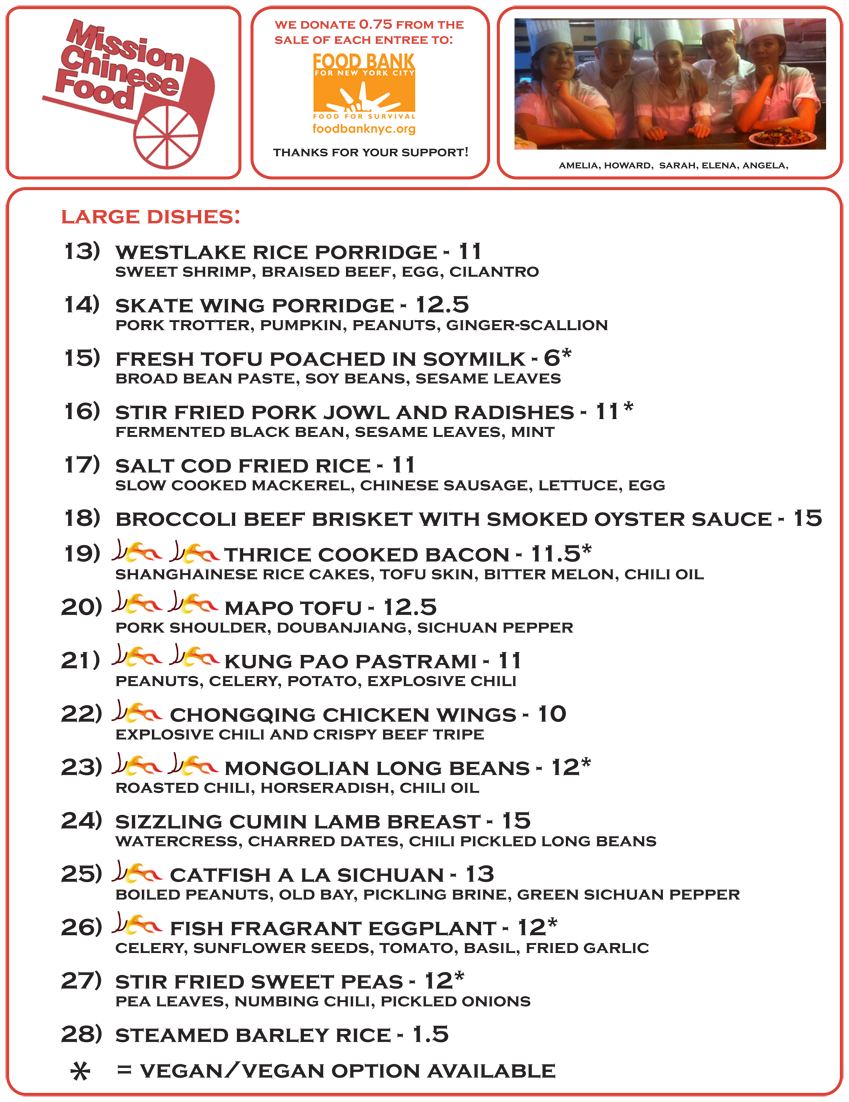
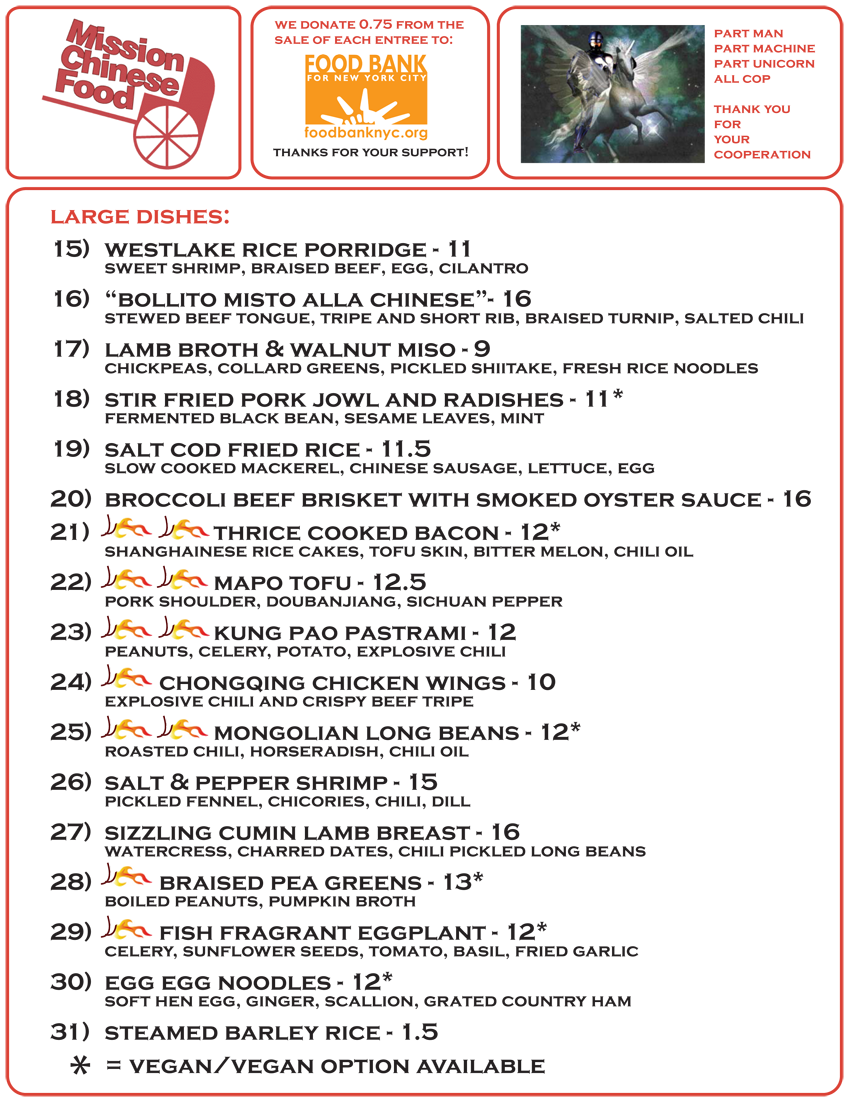
Consolidate and update lunch/dinner menus. Remove omnivore menu.

Changed region(s): [[0.0612, 0.1851, 0.98, 0.9873], [0.5819, 0.0, 0.98, 0.1543], [0.3369, 0.0309, 0.5206, 0.1234]]

diff --git a/ny/index.html b/ny/index.html
@@ -53,11 +53,8 @@ body {
 <body>
 
 <div id="menu">
-	<img class="well" src="/static/img/omnivoremenu.png?v=4" alt="Menu"  width="849" height="1048" />
-	<img class="well" src="/static/img/nymenu1dinner.png?v=1" alt="Menu"  width="849" height="1160" />
-	<img class="well" src="/static/img/nymenu2dinner.png?v=1" alt="Menu"  width="849" height="1102" />
-	<img class="well" src="/static/img/nymenu1lunch.png?v=1" alt="Menu"  width="849" height="1133" />
-	<img class="well" src="/static/img/nymenu2lunch.png?v=1" alt="Menu"  width="849" height="1118" />
+	<img class="well" src="/static/img/nymenu1.png?v=1" alt="Menu"  width="849" height="1190" />
+	<img class="well" src="/static/img/nymenu2.png?v=1" alt="Menu"  width="849" height="1102" />
 	<p id="footer">154 ORCHARD ST NY NY 10002 BETWEEN RIVINGTON &amp; STANTON ST</p>
 </div>
 
